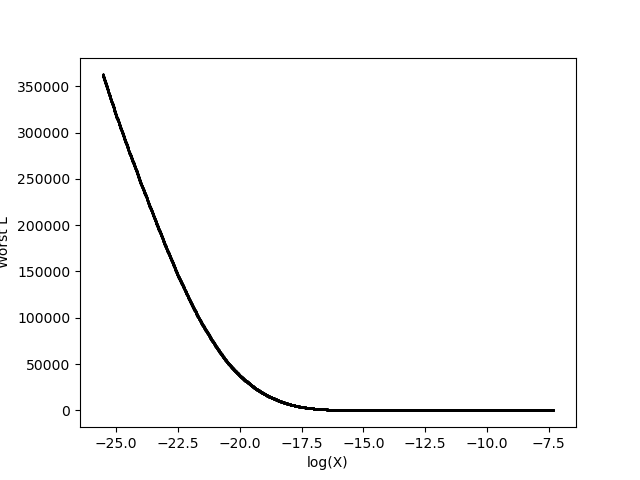
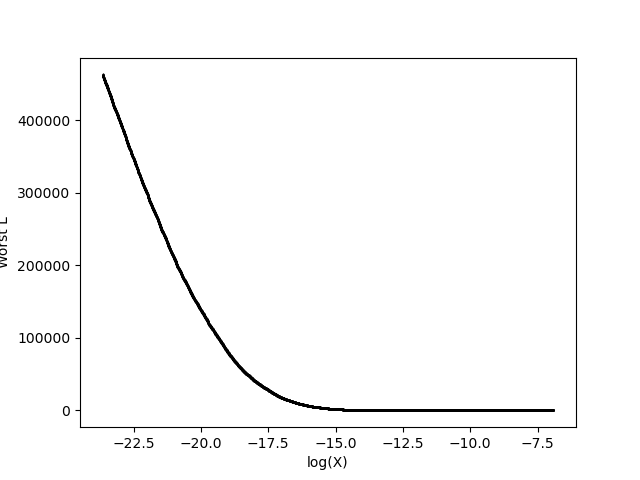
prior removed

diff --git a/nested_sampling.py b/nested_sampling.py
@@ -3,11 +3,13 @@ import matplotlib.pyplot as plt
 import argparse
 from tqdm import tqdm
 from scipy.stats import anglit
+import logging
 import time
-from functions import log_likelihood, log_prior, autocorrelation
+import itertools as it
+from functions import log_likelihood, autocorrelation #, log_prior
 
 
-def proposal(x, dim, logLmin, boundary_point, std, distribution):
+def proposal(x, dim, logLmin, boundary_point, boundary, std, distribution):
     ''' Sample a new object from the prior subject to the constrain L(x_new) > Lworst_old
 
     Parameters
@@ -41,36 +43,40 @@ def proposal(x, dim, logLmin, boundary_point, std, distribution):
     accepted = 0
     rejected = 0
     n = 0
-    step = 1
+    c = 0
+
+    k_u = 1 #1/np.log(np.sqrt(dim))
+    k_n = 1 #k_u/np.sqrt(12)
+    k_a = 1 #k_n
     while True:
-        n += 1
-        new_line = np.zeros(dim+2, dtype=np.float64)
-        k_u = 1.45/np.log(np.sqrt(dim))
-        k_n = 1
-        k_a = 1.45/np.log(np.sqrt(dim))
-
-        if distribution == 'uniform':
-            new_line[:dim] = boundary_point[:dim] + np.random.uniform(-k_u*std, k_u*std, size=dim)
-
+        new_line = np.zeros(dim+1, dtype=np.float64)
 
         for i in range(len(new_line[:dim])):
+
+            if distribution == 'uniform':
+                new_line[:dim][i] = boundary_point[i] + np.random.uniform(-k_u*std, k_u*std)
+                while np.abs(new_line[:dim][i]) > boundary:
+                    new_line[:dim][i] = boundary_point[i] + np.random.uniform(-k_u*std, k_u*std)
+
             if distribution == 'normal':
                 new_line[:dim][i] = np.random.normal(boundary_point[i], k_n*std)
-                while np.abs(new_line[:dim][i]) > 5.:
+                while np.abs(new_line[:dim][i]) > boundary:
                     new_line[:dim][i] = np.random.normal(boundary_point[i], k_n*std)
 
             if distribution == 'anglit':
                 new_line[:dim][i] = boundary_point[i] + anglit(scale=k_a*std).rvs()
-                while np.abs(new_line[:dim][i]) > 5.:
+                while np.abs(new_line[:dim][i]) > boundary:
                     new_line[:dim][i] = boundary_point[i] + anglit(scale=k_a*std).rvs()
 
-        new_log_prior = log_prior(new_line[:dim], dim)
-        new_line[dim] = new_log_prior[0]
-        new_line[dim+1] = log_likelihood(new_line[:dim], dim, init=False)[0]
+        #new_log_prior = log_prior(new_line[:dim], dim, init=False)
+        #new_line[dim] = new_log_prior[0]
+        #new_line[dim+1] = log_likelihood(new_line[:dim], dim, init=False)[0]
+        new_line[dim] = log_likelihood(new_line[:dim], dim, init=False)[0]
 
-        if new_line[dim+1] < logLmin:
+        if new_line[dim] < logLmin:
             rejected += 1
-        if new_line[dim+1] > logLmin:
+        if new_line[dim] > logLmin:
+            n += 1
             accepted += 1
             boundary_point[:dim] = new_line[:dim]
             if n > 10:
@@ -83,7 +89,7 @@ def proposal(x, dim, logLmin, boundary_point, std, distribution):
 
     return new_line, t, accepted, rejected
 
-def nested_samplig(live_points, dim, proposal_distribution, verbose=False):
+def nested_samplig(live_points, dim, boundary, proposal_distribution, verbose=False):
     '''Nested Sampling by Skilling (2004)
 
     Parameters
@@ -106,10 +112,11 @@ def nested_samplig(live_points, dim, proposal_distribution, verbose=False):
 
     logZ = -np.inf
     logH = -np.inf
-    parameters = np.random.uniform(-5, 5, size=(N, dim))
+    parameters = np.random.uniform(-boundary, boundary, size=(N, dim))
     live_points[:, :dim] = parameters
-    live_points[:, dim] = log_prior(parameters, dim)
-    live_points[:, dim+1] = log_likelihood(parameters, dim, init=True)
+    #live_points[:, dim] = log_prior(parameters, dim, init=True)
+    #live_points[:, dim+1] = log_likelihood(parameters, dim, init=True)
+    live_points[:, dim] = log_likelihood(parameters, dim, init=True)
     logwidth = np.log(1.0 - np.exp(-1.0/N))
 
     steps = 0
@@ -119,8 +126,8 @@ def nested_samplig(live_points, dim, proposal_distribution, verbose=False):
         steps += 1
         prior_mass.append(logwidth)
 
-        Lw_idx = np.argmin(live_points[:, dim+1])
-        logLw = live_points[Lw_idx, dim+1]
+        Lw_idx = np.argmin(live_points[:, dim])
+        logLw = live_points[Lw_idx, dim]
         logL_worst.append(logLw)
 
         logZnew = np.logaddexp(logZ, logwidth+logLw)
@@ -128,20 +135,21 @@ def nested_samplig(live_points, dim, proposal_distribution, verbose=False):
 
         logH = np.logaddexp(logH, logwidth + logLw - logZ + np.log(logLw - logZ))
         logH_list.append(logH)
-        error = np.sqrt(np.exp(logH)/steps)
+        error = np.sqrt(np.exp(logH)/N)
         Zlog[0].append(np.exp(logZ + error))
         Zlog[1].append(np.exp(logZ - error))
 
         survivors = np.delete(live_points, Lw_idx, axis=0)
+        #std = np.std(survivors[:dim])
         std = np.mean(np.std(survivors[:dim], axis = 0))
         boundary_point = live_points[Lw_idx,:dim]
 
         area.append(logwidth+logLw)
 
         if verbose:
-            print("i:{0} d={1} log(Lw)={2:.2f} term={3:.2f} log(Z)={4:.2f} std={5:.2f} e={6:.2f} H={7:.2f} prop={8}".format(steps, dim, logLw, (max(live_points[:,dim+1]) - steps/N - f - logZ), logZ, std, error, np.exp(logH), proposal_distribution))
+            print("i:{0} d={1} log(Lw)={2:.2f} term={3:.2f} log(Z)={4:.2f} std={5:.2f} e={6:.2f} H={7:.2f} prop={8}".format(steps, dim, logLw, (max(live_points[:,dim]) - steps/N - f - logZ), logZ, std, error, np.exp(logH), proposal_distribution))
 
-        new_sample, t, acc, rej = proposal(live_points[Lw_idx], dim, logLw, boundary_point, std, proposal_distribution)
+        new_sample, t, acc, rej = proposal(live_points[Lw_idx], dim, logLw, boundary_point, boundary, std, proposal_distribution)
         accepted += acc
         rejected += rej
         T.append(t)
@@ -149,10 +157,12 @@ def nested_samplig(live_points, dim, proposal_distribution, verbose=False):
         live_points[Lw_idx] = new_sample
         logwidth -= 1.0/N
 
-        if max(live_points[:,dim+1]) - (steps+steps**0.5)/N < f + logZ:
+        #if max(live_points[:,dim+1]) - (steps+steps**0.5)/N < f + logZ:
+        if max(live_points[:,dim]) - (steps+steps**0.5)/N < f + logZ:
             break
 
-    final_term = np.log(np.exp(live_points[:,dim+1]).sum()*np.exp(-steps/N)/N)
+    #final_term = np.log(np.exp(live_points[:,dim+1]).sum()*np.exp(-steps/N)/N)
+    final_term = np.log(np.exp(live_points[:,dim]).sum()*np.exp(-steps/N)/N)
     logZ = np.logaddexp(logZ, final_term)
     area = np.exp(area)
     logL_worst = np.exp(logL_worst)
@@ -193,11 +203,12 @@ if __name__ == "__main__":
     if args.proposal == 1: prop = 'normal'
     if args.proposal == 2: prop = 'anglit'
 
-    for d in tqdm(range(2,dim+1,3)):
+    for d in tqdm(range(dim,dim+1)):
         t_start = time.time()
-        live_points = np.zeros((n, d+2), dtype=np.float64)
+        #live_points = np.zeros((n, d+2), dtype=np.float64)
+        live_points = np.zeros((n, d+1), dtype=np.float64)
 
-        area_plot, evidence_plot, likelihood_worst, prior_mass, evidence, t_resample, steps, acc, rej, logH = nested_samplig(live_points, d, proposal_distribution = prop, verbose=args.verbose)
+        area_plot, evidence_plot, likelihood_worst, prior_mass, evidence, t_resample, steps, acc, rej, logH = nested_samplig(live_points, d, boundary, proposal_distribution = prop, verbose=args.verbose)
 
         t_end = time.time()
         t_total = t_end - t_start
@@ -242,12 +253,13 @@ if __name__ == "__main__":
             file.write(f'''============ SUMMARY ============
                     \n Dimension of the integral = {d}
                     \n Number of steps required = {steps}
-                    \n Evidence = {evidence:.2f} +- {np.sqrt(np.exp(logH)/steps)}
-                    \n Information = {np.exp(logH)}
-                    \n Maximum of the likelihood = {(2*boundary/np.sqrt(2*np.pi))**d:.2f}
+                    \n Evidence = {evidence:.2f} +- {np.sqrt(np.exp(logH)/steps)[-1]:.2f}
+                    \n Theoretical value = {d*np.log(10)}
+                    \n Information = {np.exp(logH)[-1]:.2f}
+                    \n Maximum of the likelihood = {(1/np.sqrt(2*np.pi))**d:.2f}
                     \n Proposal chosen: {prop}
                     \n Last area value = {area_plot[-1]:.2f}
-                    \n Last worst Likelihood = {likelihood_worst[-1]}
+                    \n Last worst Likelihood = {likelihood_worst[-1]:.2f}
                     \n Accepted and rejected points: {acc}, {rej}
                     \n Mass prior sum = {np.exp(prior_mass).sum():.2f}
                     \n Total time: {end-start:.2f} s

diff --git a/functions.py b/functions.py
@@ -2,7 +2,7 @@
 import numpy as np
 import matplotlib.pyplot as plt
 
-def log_likelihood(x, dim, init, boundary=5):
+def log_likelihood(x, dim, init):
     ''' Return the logarithm of a N-dimensional gaussian likelihood.
     It is set in such a way that the integral of the product with the
     prior over the parameter space is 1.
@@ -32,44 +32,13 @@ def log_likelihood(x, dim, init, boundary=5):
 
     if init:
         for v in x:
-            exp = v**2
-            L = dim*np.log(2*boundary) - 0.5*dim*np.log(2*np.pi) - 0.5*exp.sum()
+            L = - 0.5*dim*np.log(2*np.pi) - 0.5*v.T.dot(v)
             likelihood.append(L)
     else:
-        L = dim*np.log(2*boundary) - 0.5*dim*np.log(2*np.pi) - 0.5*x.T.dot(x)
+        L = - 0.5*dim*np.log(2*np.pi) - 0.5*x.T.dot(x)
         likelihood.append(L)
 
     return likelihood
-
-def log_prior(x, dim, boundary=5):
-    '''Return a uniform prior for each value of the N-dimension vector x.
-    It is set in such a way that the integral of the product with the
-    likelihood over the parameter space is 1.
-
-    Parameters
-    -----------
-    x : numpy.array
-        A random N dimensional vector.
-    dim : int
-        Dimension of the parameter space.
-    boundary : init, optional
-        Boundary of the parameter space. The default is 5
-
-    Retruns
-    -------
-    prior : list
-        List of prior values.
-    '''
-
-    prior = []
-    mod = np.sqrt(dim) * boundary
-    for v in x:
-        if np.sqrt((v*v).sum()) > mod:
-            prior.append(-np.inf)
-        else:
-            prior.append(-dim*np.log(2*boundary))
-
-    return prior
 
 
 def autocorrelation(x, max_lag, bootstrap=False):
